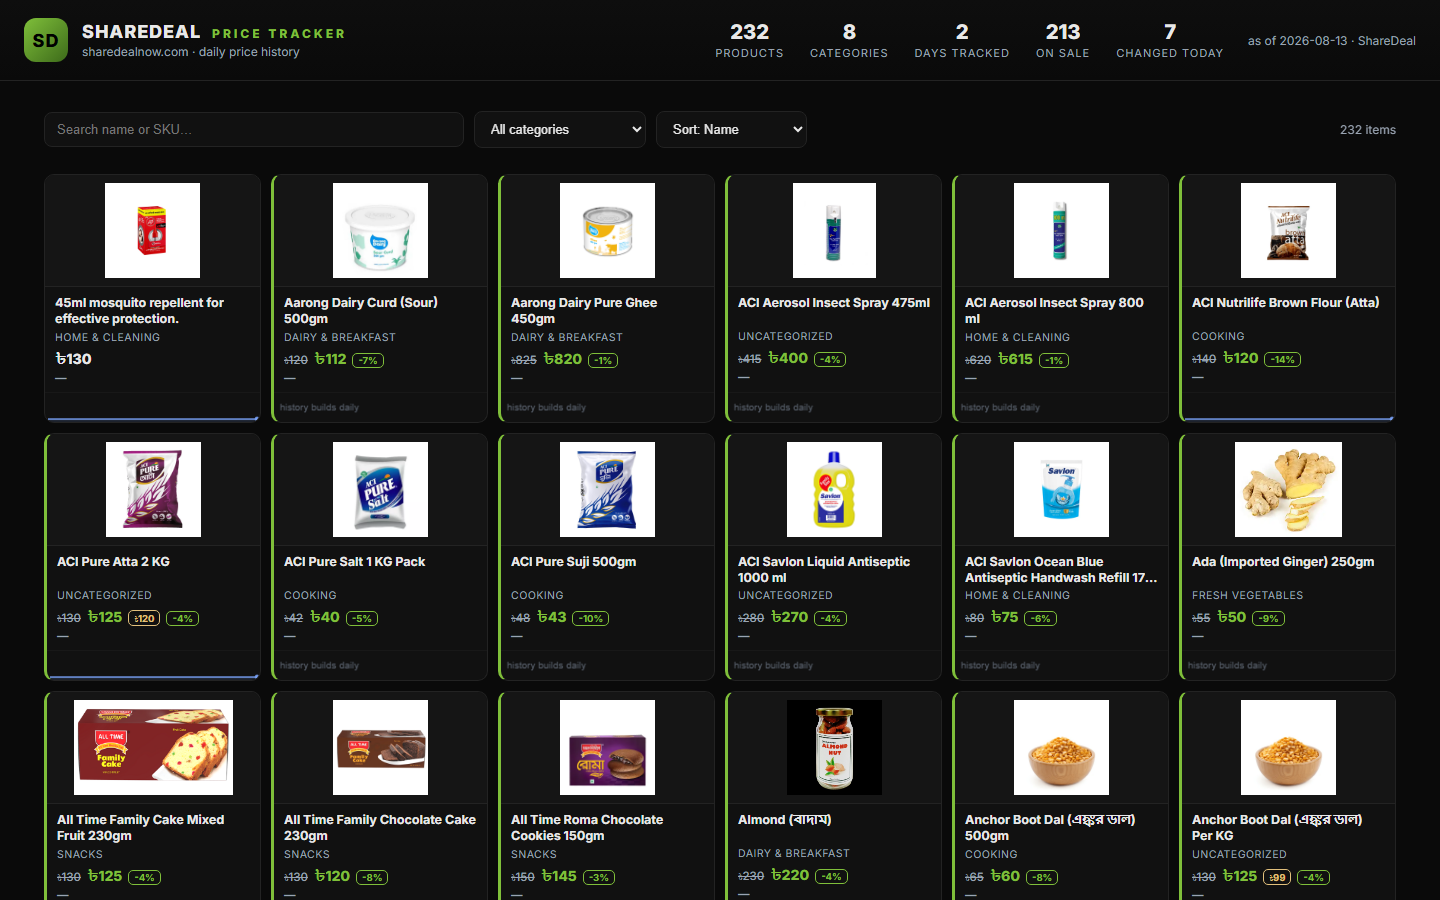
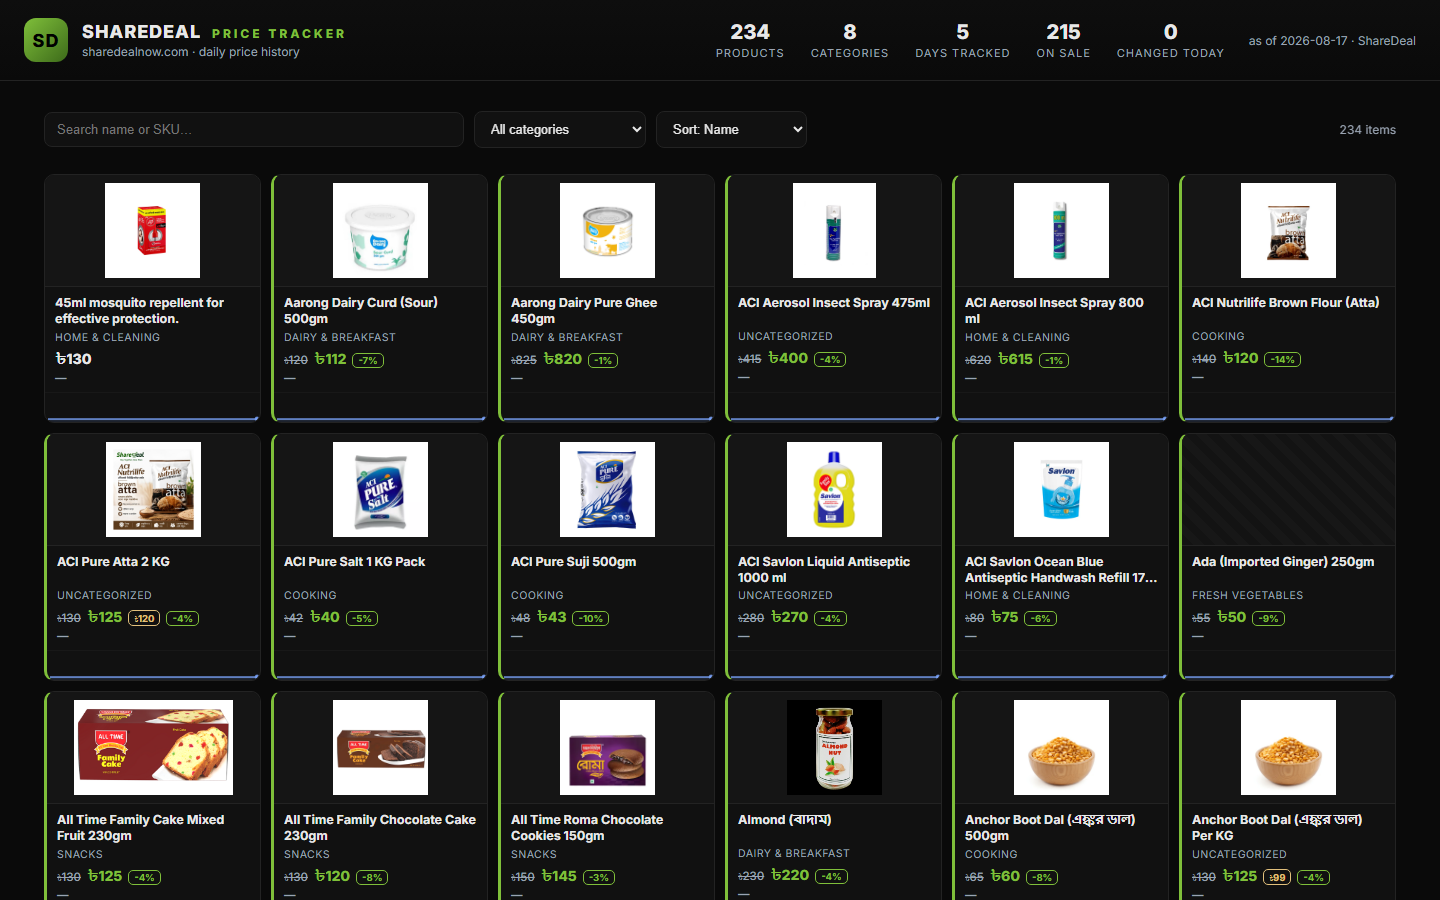
fix: export fresh price history data & add dashboard feature screenshots to README

diff --git a/README.md b/README.md
@@ -1,102 +1,39 @@
-# 🛍 Sharedeal Deals & Analytics Engine
+# ShareDeal Analytics — Deal Tracker & Price History
 
-> **Promotional Deal Tracking & Flash-Sale Price Intelligence** — A production-ready analytics engine and real-time dashboard designed for monitoring price fluctuations, inventory stock states, and promotional deals.
-
-[![JavaScript](https://img.shields.io/badge/Frontend-Vanilla%20JS-F7DF1E?style=for-the-badge&logo=javascript&logoColor=black)](https://developer.mozilla.org/en-US/docs/Web/JavaScript)
-[![Python](https://img.shields.io/badge/Scraper-Python%203.11+-3776AB?style=for-the-badge&logo=python&logoColor=white)](https://python.org)
-[![License](https://img.shields.io/badge/License-MIT-blue.svg?style=for-the-badge)](LICENSE)
+Deals & offer price tracker, catalog history recorder, and static analytics dashboard for ShareDeal.
 
 ---
 
-## 📌 Executive Summary
+## 🌐 Dashboard & Live Preview
 
-**sharedeal** delivers high-precision price history monitoring and catalog analytics for e-commerce and retail operations. The system systematically captures product metadata, normalizes per-unit prices, tracks promotional discounts over time, and presents actionable market insights through an intuitive, responsive web interface.
-
----
-
-## 🚀 Key Features
-
-- **📈 Historical Price Tracking**: Track price trends, discount percentages, and availability states over time.
-- **🔍 Advanced Filtering & Sorting**: Filter items by category, price drops, discount ratios, and keyword search.
-- **⚡ Fast Responsive Dashboard**: Zero-latency interactive data visualizer built with modern CSS and modular JS.
-- **📊 Export & Data Ingestion**: Structured JSON & HAR extraction pipelines for background analytical processing.
+![Dashboard Preview](screenshots/dashboard.png)
 
 ---
 
-## 📸 Screenshots
+## 📈 Price History & Historical Analytics
 
-![Sharedeal Analytics Dashboard](screenshots/dashboard.png)
-
-
----
-
-## 🏗 System Architecture
-
-`
-┌─────────────────────────┐      ┌──────────────────────────┐      ┌────────────────────────┐
-│  Ingestion & Scrapers   │ ───► │  Data Normalization ETL  │ ───► │  Frontend Dashboard    │
-│  (HAR / REST APIs / Py) │      │  (JSON / SQLite Storage) │      │  (HTML5 / CSS3 / JS)   │
-└─────────────────────────┘      └──────────────────────────┘      └────────────────────────┘
-`
+![Price History & Charts](screenshots/price_history.png)
 
 ---
 
-## 📁 Repository Structure
+## 🔍 Features & Interactive Exploration
 
-`
-sharedeal/
-├── frontend/             # Single-page web dashboard files
-│   ├── index.html        # Main dashboard interface
-│   ├── script.js         # Interactive filtering & state management logic
-│   └── style.css         # Custom responsive styles & CSS tokens
-├── screenshots/          # Embedded screenshot previews
-│   └── dashboard.png     # Dashboard screenshot preview
-├── extract_har.py        # HAR file parsing & JSON extraction script
-└── scraper.py            # Automated network scraper engine
-`
+![Features & Category View](screenshots/features.png)
 
 ---
 
-## 🛠 Usage & Quick Start
+## 🛠 Features & Architecture
 
-### 1. Launch Local Dashboard Server
-`ash
-python -m http.server 8000
-# Open http://localhost:8000/frontend/ in your browser
-`
+- **Automated Price Tracking**: Scrapes live catalog prices and logs historical deltas.
+- **Fast Interactive UI**: Clean, responsive frontend with search, filters, and movers panels.
+- **Automated GitHub Pipeline**: Continuous scraping and daily snapshot deployments via GitHub Actions & Kaggle orchestrator.
 
-### 2. Run Data Scraper Engine
-`ash
+## ⚡ Local Run Instructions
+
+```bash
+# Run the scraper entry point
 python scraper.py
-`
 
----
-
-
-## 🚀 Future Work & Industrial Roadmap
-
-To elevate this platform to an enterprise-grade, production-ready product meeting current industrial standards, the following strategic goals and architecture enhancements are planned:
-
-### 1. 🏗 High-Availability Microservices & Infrastructure
-- **Containerization & Orchestration**: Package ingestion workers, APIs, and dashboards into Docker containers with deployment via **Kubernetes (K8s)** and Helm charts for autoscaling during peak traffic hours.
-- **Distributed Ingestion Workers**: Transition from localized scraping scripts to an asynchronous, fault-tolerant worker pool utilizing **Celery + Redis** or **Temporal.io** with automated proxy rotation, rate-limiting retry strategies, and CAPTCHA bypass capabilities.
-- **High-Performance API Gateway**: Implement an enterprise API Gateway (Kong / Envoy) providing OAuth2 / JWT authentication, TLS termination, and granular rate limiting (Token Bucket algorithm).
-
-### 2. 📊 Enterprise Data Engineering & Streaming Pipelines
-- **Data Lakehouse Architecture**: Store multi-year raw price histories using **Apache Parquet / Delta Lake** or **Google BigQuery** for scalable analytical queries across millions of SKU updates.
-- **Real-Time CDC & Message Streaming**: Integrate **Apache Kafka** or **NATS** for Change Data Capture (CDC) to stream price change events instantly to downstream analytics and notification consumers.
-- **Automated Workflow Orchestration**: Schedule and monitor data ingestion, ETL pipelines, and unit normalization using **Apache Airflow** or **Prefect** integrated with **dbt** for dynamic data transformations.
-
-### 3. 🧠 Machine Learning & Advanced Market Intelligence
-- **Predictive Price Forecasting**: Deploy **Prophet** and **LSTM Neural Networks** to predict future price drops, historical promotion trends, and seasonal discount cycles.
-- **Anomaly & Surge Detection**: Build ML models to identify artificial price hikes before promotional sales, mislabeled unit metrics, and phantom stock availability.
-- **Semantic Product Entity Matching**: Utilize vector embeddings (OpenAI / Sentence-Transformers) paired with **pgvector** / **Pinecone** to match identical SKUs across competitor platforms despite variations in naming formats.
-
-### 4. 🔐 Security, Compliance & System Observability
-- **Zero-Trust Security & RBAC**: Enforce Role-Based Access Control (RBAC), AES-256 GCM payload encryption at rest, and secret rotation via HashiCorp Vault.
-- **Full Observability Stack**: Instrument services with **OpenTelemetry**, emitting distributed traces, Prometheus metrics, and structured logs to **Grafana Loki & Tempo** dashboards.
-- **SLA Alerting & Webhook Engine**: Provide instant trigger notifications via **Telegram Bot API**, **Discord Webhooks**, email notifications, and enterprise SMS gateways when watched items reach target prices.
-
-### 5. 📱 Next-Gen User Experience & Mobile Platforms
-- **Cross-Platform Mobile App**: Develop a dedicated **React Native / Flutter** app featuring push notifications for price drops, barcode scanning in physical stores, and personalized deal watchlists.
-- **Progressive Web App (PWA)**: Upgrade the dashboard to a full PWA with offline caching via Service Workers, dynamic theme switching, and desktop application installability.
+# Serve dashboard locally
+python -m http.server 8000
+```
